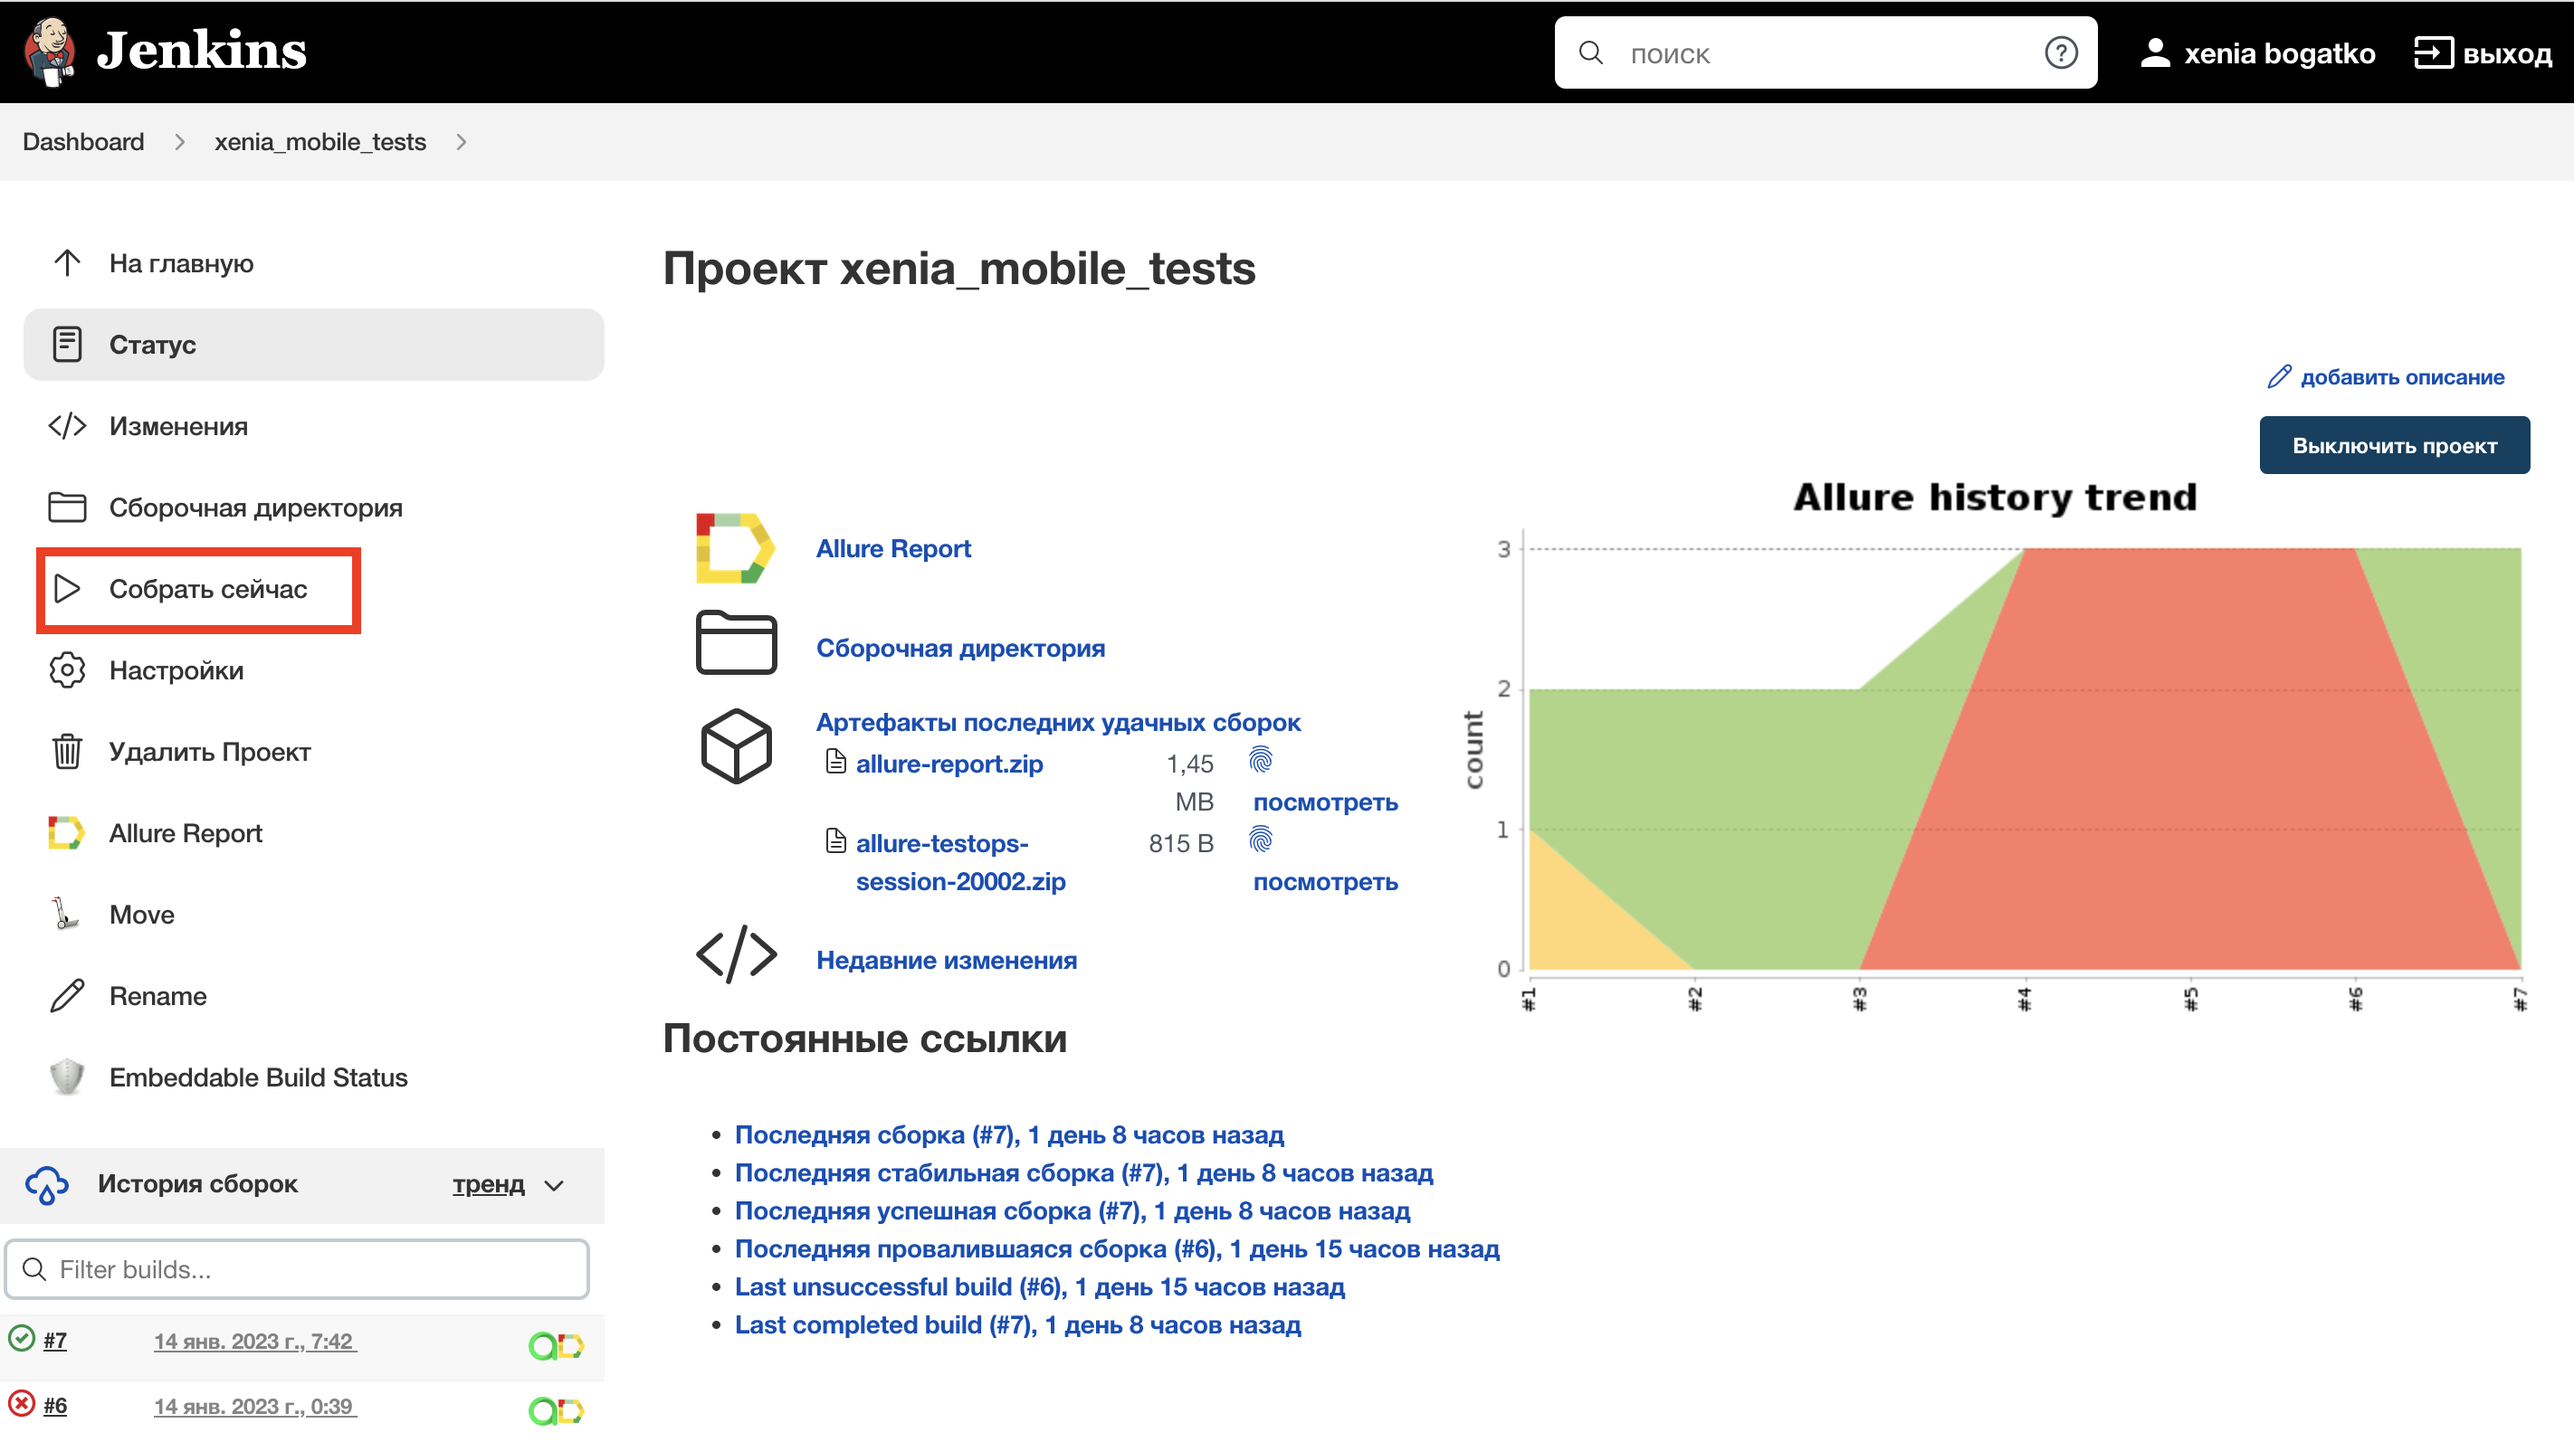
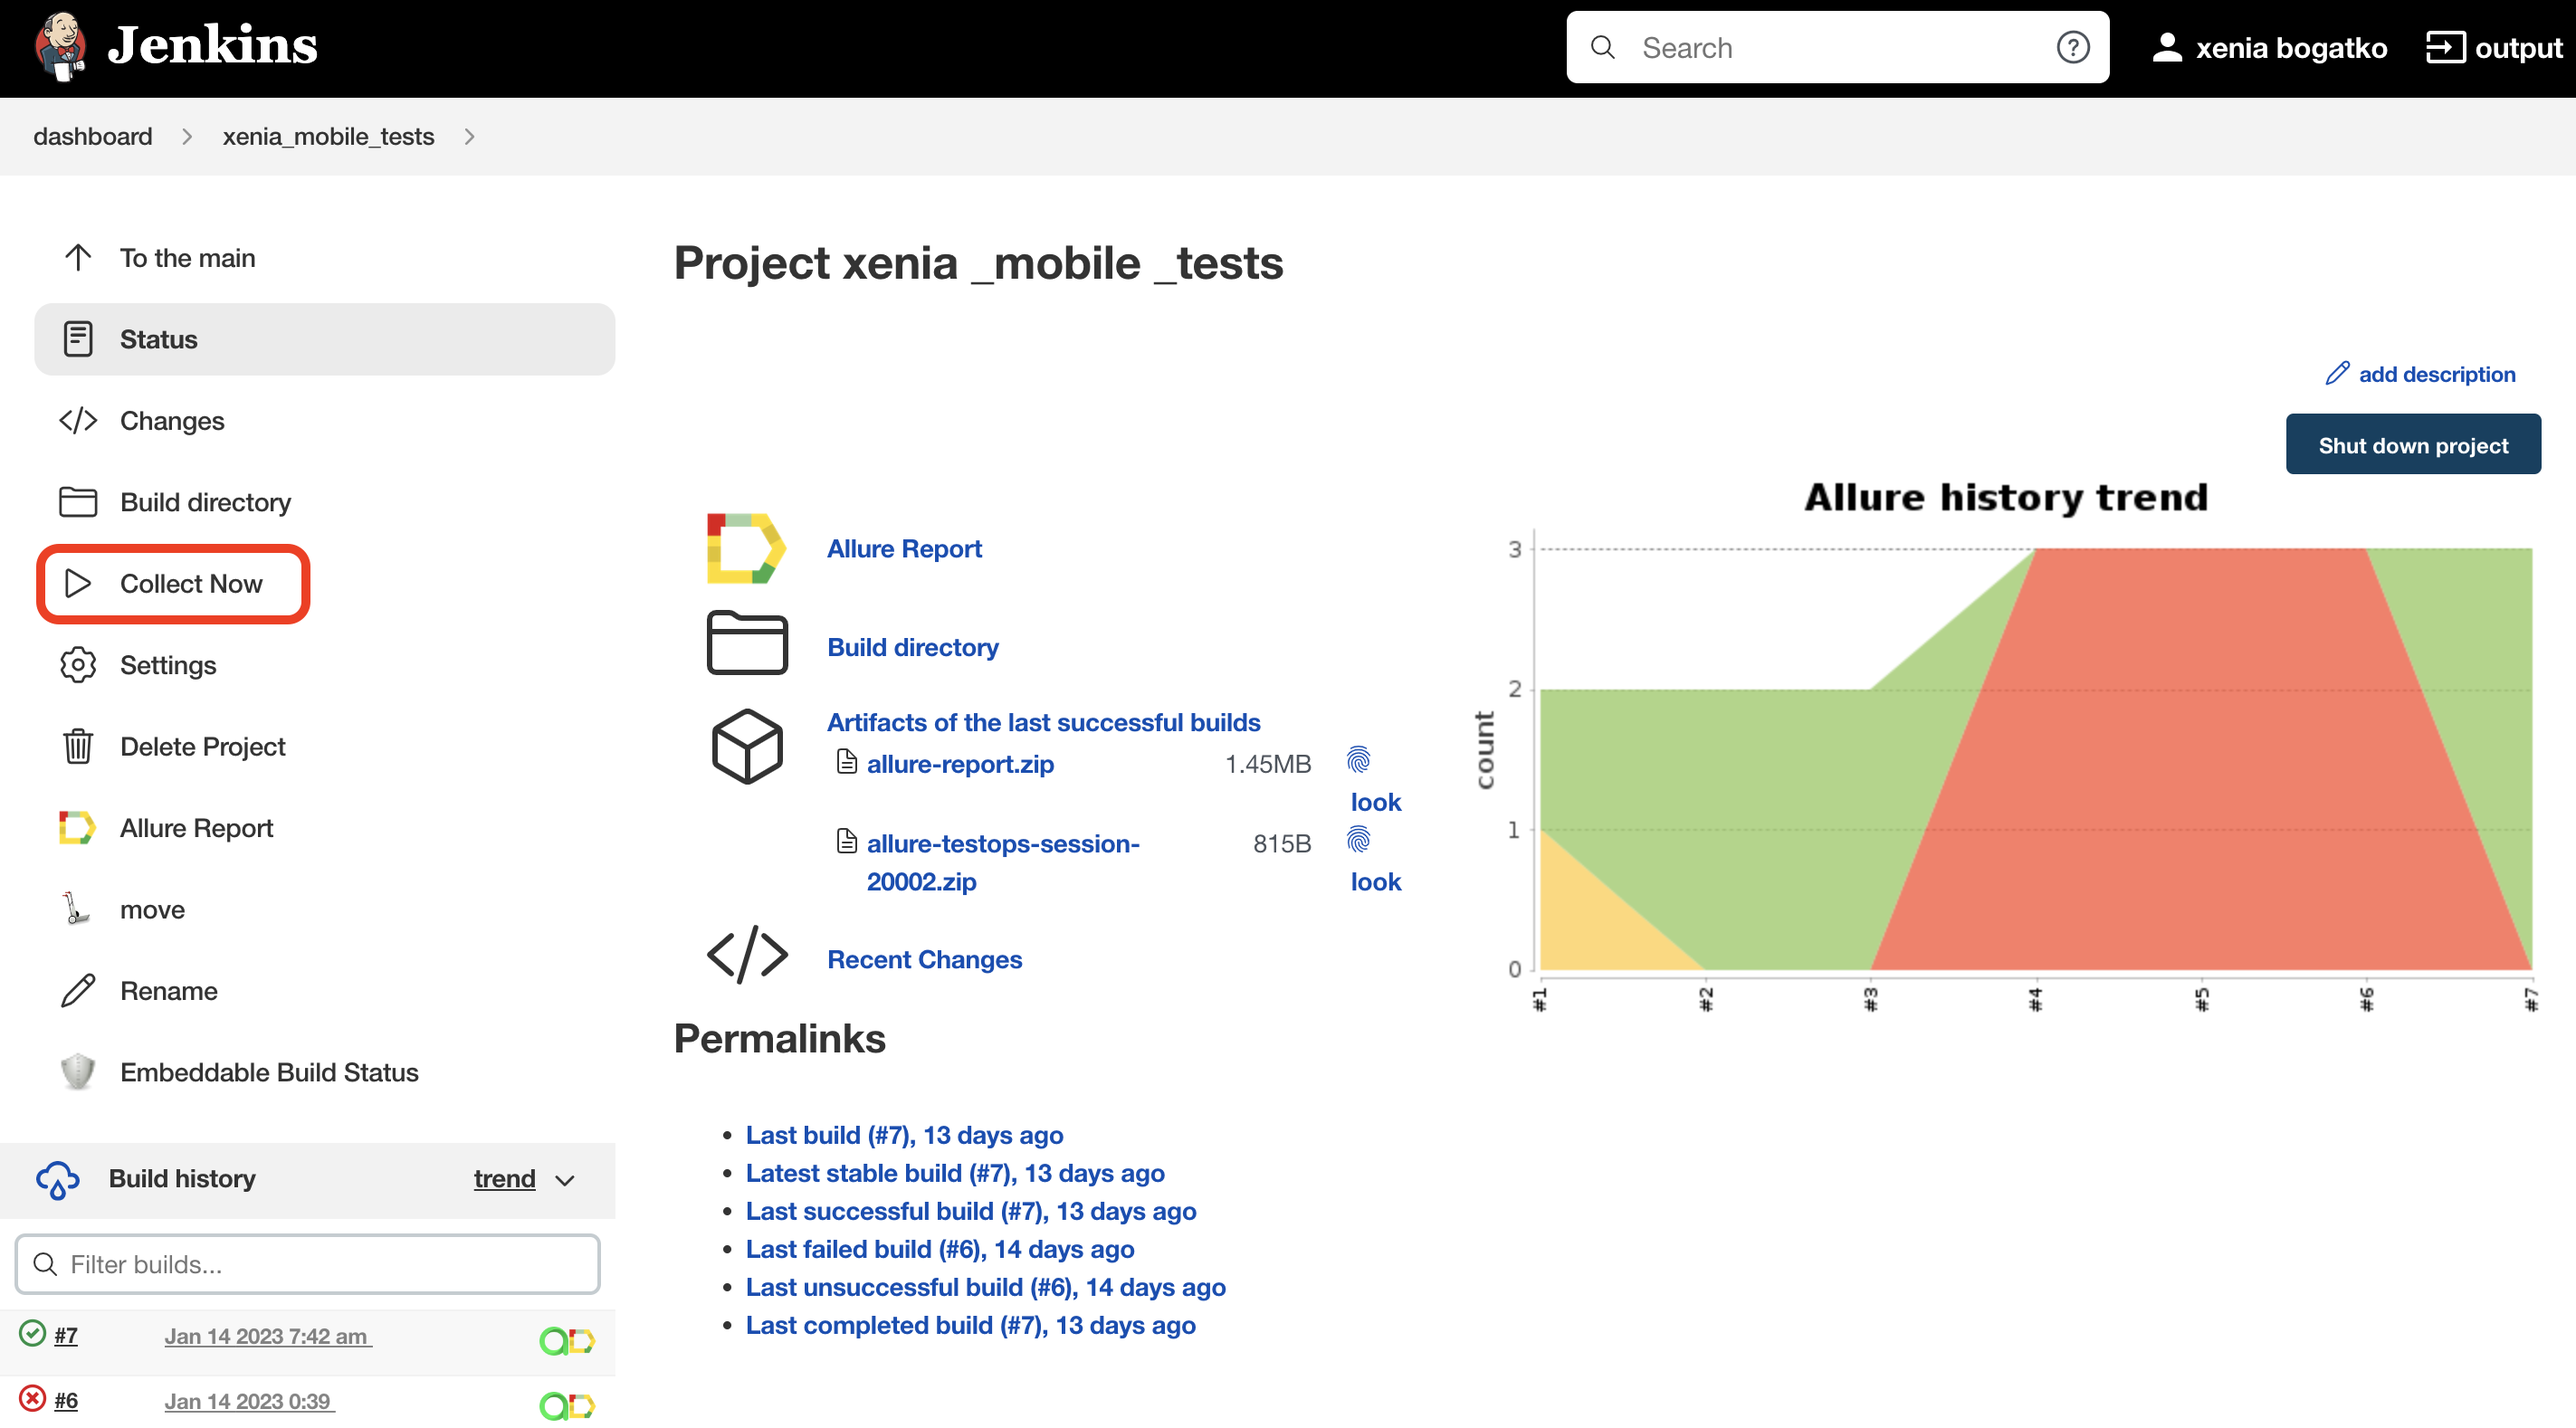
fixed after first review

diff --git a/src/test/java/tests/android/SearchTests.java b/src/test/java/tests/android/SearchTests.java
@@ -3,8 +3,6 @@ package tests.android;
 import io.appium.java_client.AppiumBy;
 import org.junit.jupiter.api.Test;
 
-import java.net.MalformedURLException;
-
 import static com.codeborne.selenide.CollectionCondition.sizeGreaterThan;
 import static com.codeborne.selenide.Condition.text;
 import static com.codeborne.selenide.Condition.visible;
@@ -14,7 +12,7 @@ import static io.qameta.allure.Allure.step;
 public class SearchTests extends TestBase {
 
     @Test
-    void successSearchTest() throws MalformedURLException, InterruptedException {
+    void successSearchTest() {
         step("Skip onboarding pages", () -> back());
         step("Type search", () -> {
             $(AppiumBy.accessibilityId("Search Wikipedia")).click();
@@ -25,7 +23,7 @@ public class SearchTests extends TestBase {
     }
 
     @Test
-    void openArticle() throws MalformedURLException, InterruptedException {
+    void openArticle() {
         step("Skip onboarding pages", () -> back());
         step("Type search", () -> {
             $(AppiumBy.accessibilityId("Search Wikipedia")).click();
@@ -43,7 +41,7 @@ public class SearchTests extends TestBase {
     }
 
     @Test
-    void addLanguage() throws MalformedURLException, InterruptedException {
+    void addLanguage() {
         step("Skip onboarding pages", () -> back());
         step("Type search", () ->
                 $(AppiumBy.accessibilityId("Search Wikipedia")).click());

diff --git a/src/test/java/config/BrowserstackConfig.java b/src/test/java/config/BrowserstackConfig.java
@@ -2,25 +2,19 @@ package config;
 
 import org.aeonbits.owner.Config;
 
-@Config.Sources({
-        "classpath:browserstack.properties"
-})
+@Config.Sources("classpath:browserstack.properties")
 
 public interface BrowserstackConfig extends Config {
 
     String username();
-
     String password();
 
-    @Key("bs")
     @DefaultValue("bs://01e17240ba7a175af125b6c9c60f8ed39f1544fa")
     String bs();
 
-    @Key("device")
     @DefaultValue("Google Pixel 3")
     String device();
 
-    @Key("osVersion")
     @DefaultValue("9.0")
     String osVersion();
 

diff --git a/src/test/java/config/LocalConfig.java b/src/test/java/config/LocalConfig.java
@@ -2,21 +2,16 @@ package config;
 
 import org.aeonbits.owner.Config;
 
-@Config.Sources({
-        "classpath:local.properties"
-})
+@Config.Sources("classpath:local.properties")
 
 public interface LocalConfig extends Config {
 
-    @Key("platformName")
     @DefaultValue("android")
     String platformName();
 
-    @Key("deviceName")
     @DefaultValue("Pixel 4 API 30")
     String deviceName();
 
-    @Key("osVersion")
     @DefaultValue("11.0")
     String osVersion();
 

diff --git a/README.md b/README.md
@@ -1,6 +1,6 @@
 # Test automation project for Wikipedia mobile app
 
-##	Content
+##	Table of Contents
 
 - [Technologies and tools](#technologist-technologies-and-tools)
 - [Implemented checks](#bookmark_tabs-implemented-checks)
@@ -50,7 +50,7 @@ gradle clean test
 
 ## <img width="4%" title="Jenkins" src="media/logo/Jenkins.svg"> Running tests in [Jenkins](https://jenkins.autotests.cloud/job/xenia_mobile_tests/)
 
-Click the button <code><strong>*Collect*</strong></code> to start the build.
+Click the button <code><strong>*Collect Now*</strong></code> to start the build.
 
 <p align="center">
   <img src="media/jenkins.png" alt="Jenkins" width="800">
